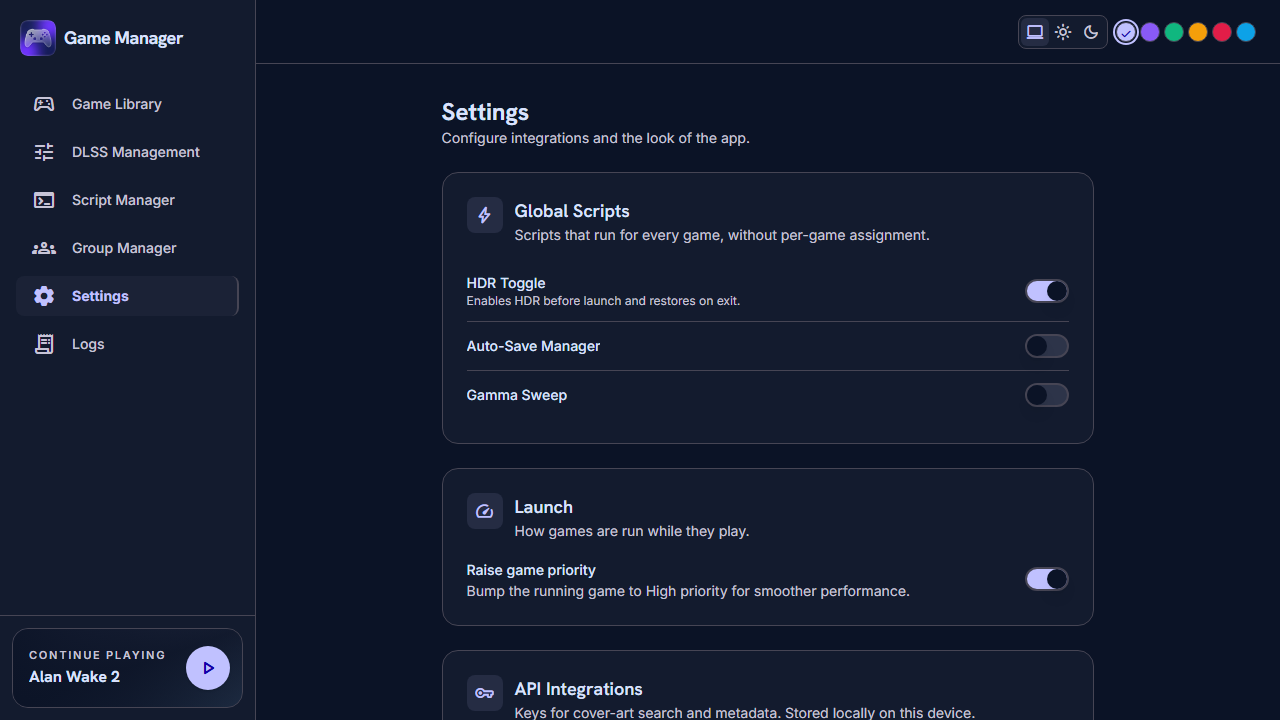
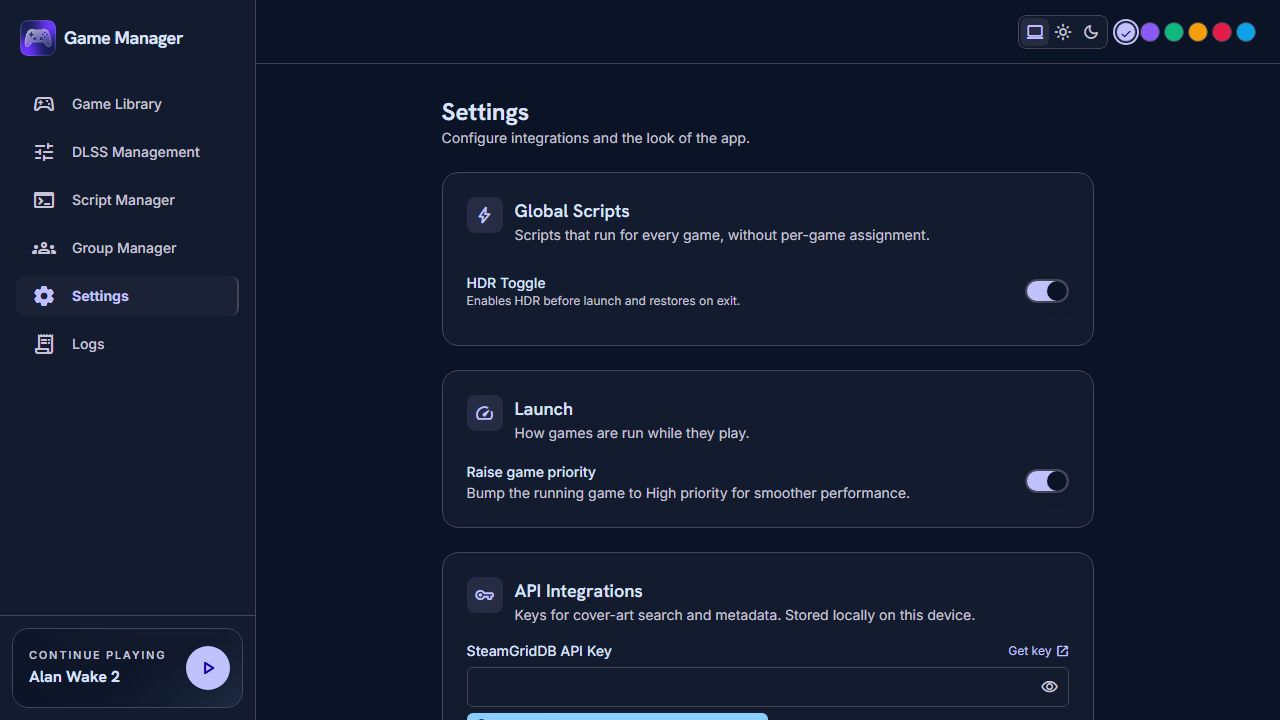
Update global scripts section and logging functionality
- Refactored the GlobalScriptsSection to only list scripts marked as global, improving clarity in the UI.
- Updated related tests to reflect changes in script filtering and toggling behavior.
- Enhanced logging functions to conditionally include verbose logs based on the build type, improving log management.
- Added integration tests to verify the suppression of debug and trace logs when verbose logging is disabled.

diff --git a/src/tests/features/settings/global-scripts-section.test.tsx b/src/tests/features/settings/global-scripts-section.test.tsx
@@ -29,42 +29,41 @@ describe('GlobalScriptsSection', () => {
     useToastStore.setState({ toasts: [] })
   })
 
-  it('renders the placeholder when there are no non-utility scripts', async () => {
+  it('renders the placeholder when there are no global scripts', async () => {
     overrideIpcCommands({ list_scripts: () => [script(3, 'SaveLib', 'utility')] })
     renderWithProviders(<GlobalScriptsSection />)
 
     expect(await screen.findByTestId('global-scripts-placeholder')).toBeInTheDocument()
-    // Utilities are excluded from the toggle list entirely.
     expect(screen.queryByText('SaveLib')).not.toBeInTheDocument()
   })
 
-  it('lists non-utility scripts with a switch reflecting global state', async () => {
+  it('shows only scripts whose kind is global', async () => {
     overrideIpcCommands({
       list_scripts: () => [script(1, 'Overlay', 'normal'), script(2, 'Presence', 'global')],
     })
     renderWithProviders(<GlobalScriptsSection />)
 
     expect(await screen.findByTestId('global-scripts-list')).toBeInTheDocument()
-    expect(screen.getByRole('switch', { name: 'Run Overlay globally' })).not.toBeChecked()
     expect(screen.getByRole('switch', { name: 'Run Presence globally' })).toBeChecked()
+    expect(screen.queryByRole('switch', { name: 'Run Overlay globally' })).not.toBeInTheDocument()
   })
 
-  it('toggles a script to global via set_script_kind', async () => {
+  it('toggles a global script back to normal via set_script_kind', async () => {
     overrideIpcCommands({
-      list_scripts: () => [script(1, 'Overlay', 'normal')],
-      set_script_kind: (args) => ({ ...script(1, 'Overlay', 'normal'), kind: args?.kind }),
+      list_scripts: () => [script(1, 'Overlay', 'global')],
+      set_script_kind: (args) => ({ ...script(1, 'Overlay', 'global'), kind: args?.kind }),
     })
     const user = userEvent.setup()
     renderWithProviders(<GlobalScriptsSection />)
 
     await user.click(await screen.findByRole('switch', { name: 'Run Overlay globally' }))
     await waitFor(() => expect(ipc.calls('set_script_kind')).toHaveLength(1))
-    expect(ipc.calls('set_script_kind')[0]).toEqual({ id: 1, kind: 'global' })
+    expect(ipc.calls('set_script_kind')[0]).toEqual({ id: 1, kind: 'normal' })
   })
 
   it('toasts when the kind update fails', async () => {
     overrideIpcCommands({
-      list_scripts: () => [script(1, 'Overlay', 'normal')],
+      list_scripts: () => [script(1, 'Overlay', 'global')],
       set_script_kind: () => {
         throw new Error('db locked')
       },

diff --git a/src/features/settings/global-scripts-section.tsx b/src/features/settings/global-scripts-section.tsx
@@ -7,16 +7,15 @@ import type { Script } from '@/types/domain'
 import { SettingsSection } from './settings-section'
 
 /**
- * Global Scripts section. Lists every non-utility script with a Switch that
- * toggles its `kind` between `global` and `normal` via `set_script_kind`.
- * Utility scripts are excluded — they are phase-less snippets, never global
- * execution entries.
+ * Global Scripts section. Lists only scripts whose persisted `kind` is
+ * `global`, with a Switch that can demote them back to `normal` via
+ * `set_script_kind`.
  */
 export function GlobalScriptsSection(): React.JSX.Element {
   const scriptsQuery = useScriptsQuery()
   const setKindMutation = useSetScriptKindMutation()
 
-  const toggleable = (scriptsQuery.data ?? []).filter((script) => script.kind !== 'utility')
+  const globalScripts = (scriptsQuery.data ?? []).filter((script) => script.kind === 'global')
 
   async function handleToggle(script: Script, makeGlobal: boolean): Promise<void> {
     try {
@@ -40,19 +39,19 @@ export function GlobalScriptsSection(): React.JSX.Element {
       title="Global Scripts"
       description="Scripts that run for every game, without per-game assignment."
     >
-      {toggleable.length === 0 ? (
+      {globalScripts.length === 0 ? (
         <div
           className="flex flex-col items-center justify-center gap-2 rounded-lg border border-dashed border-border py-10 text-center"
           data-testid="global-scripts-placeholder"
         >
           <Icon name="code_off" className="text-[32px] text-muted-foreground" />
           <p className="text-sm text-muted-foreground">
-            Global script toggles appear here once you create scripts.
+            Scripts marked global will appear here.
           </p>
         </div>
       ) : (
         <ul className="divide-y divide-border" data-testid="global-scripts-list">
-          {toggleable.map((script) => {
+          {globalScripts.map((script) => {
             const isGlobal = script.kind === 'global'
             return (
               <li key={script.id} className="flex items-center justify-between gap-4 py-3">

diff --git a/src-tauri/src/commands/logging.rs b/src-tauri/src/commands/logging.rs
@@ -35,9 +35,33 @@ fn parse_level(level: &str) -> LogLevel {
     }
 }
 
+/// Whether rows below `info` should be persisted or returned by the Log Viewer.
+pub fn include_verbose_logs(is_debug_build: bool) -> bool {
+    is_debug_build
+}
+
 /// Persist a frontend log line to the `logs` table (mirrored to `tracing`).
 ///
-/// Returns the new row's id. `category` defaults to `frontend` when absent.
+/// Returns the new row's id, or `0` when the row is intentionally suppressed.
+/// `category` defaults to `frontend` when absent.
+pub fn log_frontend_impl_with_minimum_level(
+    state: &AppState,
+    level: &str,
+    category: Option<&str>,
+    message: &str,
+    details: Option<&str>,
+    include_verbose: bool,
+) -> AppResult<i64> {
+    let level = parse_level(level);
+    if level == LogLevel::Debug && !include_verbose {
+        return Ok(0);
+    }
+
+    let category = category.unwrap_or("frontend");
+    state.with_db(|conn| write_log(conn, level, category, message, None, None, details))
+}
+
+/// Persist a frontend log line using the current build's verbose-log visibility.
 pub fn log_frontend_impl(
     state: &AppState,
     level: &str,
@@ -45,9 +69,14 @@ pub fn log_frontend_impl(
     message: &str,
     details: Option<&str>,
 ) -> AppResult<i64> {
-    let level = parse_level(level);
-    let category = category.unwrap_or("frontend");
-    state.with_db(|conn| write_log(conn, level, category, message, None, None, details))
+    log_frontend_impl_with_minimum_level(
+        state,
+        level,
+        category,
+        message,
+        details,
+        include_verbose_logs(cfg!(debug_assertions)),
+    )
 }
 
 /// Fetch one page of log rows (newest first) for the Log Viewer.
@@ -59,16 +88,21 @@ pub fn log_frontend_impl(
 /// rows, so the viewer always exposes at least [`LOG_MIN_PAGES`] pages, or a full
 /// day of logs when that is larger. The returned [`LogPage::total`] reflects that
 /// bounded window. Pages beyond the window resolve to an empty `entries` list.
-pub fn list_logs_impl(
+pub fn list_logs_impl_with_minimum_level(
     state: &AppState,
     page: i64,
     page_size: i64,
     level: Option<&str>,
     search: Option<&str>,
+    include_verbose: bool,
 ) -> AppResult<LogPage> {
     let page = page.max(1);
     let page_size = page_size.max(1);
-    let filter = LogFilter { level, search };
+    let filter = LogFilter {
+        level,
+        search,
+        include_verbose,
+    };
     let day_cutoff = (Utc::now() - Duration::days(1)).to_rfc3339();
     state.with_db(|conn| {
         let actual_total = logs::count_filtered(conn, &filter, None)?;
@@ -90,6 +124,24 @@ pub fn list_logs_impl(
             page_size,
         })
     })
+}
+
+/// Fetch one page of log rows using the current build's verbose-log visibility.
+pub fn list_logs_impl(
+    state: &AppState,
+    page: i64,
+    page_size: i64,
+    level: Option<&str>,
+    search: Option<&str>,
+) -> AppResult<LogPage> {
+    list_logs_impl_with_minimum_level(
+        state,
+        page,
+        page_size,
+        level,
+        search,
+        include_verbose_logs(cfg!(debug_assertions)),
+    )
 }
 
 /// Thin `#[tauri::command]` wrapper delegating to [`log_frontend_impl`].

diff --git a/src-tauri/tests/logs_pagination_integration.rs b/src-tauri/tests/logs_pagination_integration.rs
@@ -1,7 +1,9 @@
 //! Pagination for the Log Viewer (`list_logs_impl`) integration tests.
 
 use chrono::{Duration, Utc};
-use game_manager_lib::commands::logging::{list_logs_impl, LOG_MIN_PAGES, LOG_PAGE_SIZE};
+use game_manager_lib::commands::logging::{
+    list_logs_impl, list_logs_impl_with_minimum_level, LOG_MIN_PAGES, LOG_PAGE_SIZE,
+};
 use game_manager_lib::db::repo::logs::{self, NewLog};
 use game_manager_lib::domain::LogLevel;
 use game_manager_lib::state::AppState;
@@ -117,6 +119,38 @@ fn filters_by_level() {
     let none = list_logs_impl(&state, 1, LOG_PAGE_SIZE, Some("warn"), None).unwrap();
     assert_eq!(none.total, 0);
     assert!(none.entries.is_empty());
+}
+
+#[test]
+fn info_minimum_excludes_verbose_rows_from_all_filters() {
+    let state = AppState::in_memory().unwrap();
+    let now = Utc::now().to_rfc3339();
+    seed_with(&state, 3, &now, LogLevel::Debug, "dlss");
+    seed_with(&state, 2, &now, LogLevel::Info, "dlss");
+    seed_with(&state, 1, &now, LogLevel::Warn, "dlss");
+
+    let all =
+        list_logs_impl_with_minimum_level(&state, 1, LOG_PAGE_SIZE, None, None, false).unwrap();
+    assert_eq!(all.total, 3);
+    assert!(all
+        .entries
+        .iter()
+        .all(|entry| entry.level != LogLevel::Debug));
+
+    let debug =
+        list_logs_impl_with_minimum_level(&state, 1, LOG_PAGE_SIZE, Some("debug"), None, false)
+            .unwrap();
+    assert_eq!(debug.total, 0);
+    assert!(debug.entries.is_empty());
+
+    let debug_visible =
+        list_logs_impl_with_minimum_level(&state, 1, LOG_PAGE_SIZE, Some("debug"), None, true)
+            .unwrap();
+    assert_eq!(debug_visible.total, 3);
+    assert!(debug_visible
+        .entries
+        .iter()
+        .all(|entry| entry.level == LogLevel::Debug));
 }
 
 #[test]

diff --git a/src-tauri/tests/logging_retention_integration.rs b/src-tauri/tests/logging_retention_integration.rs
@@ -1,7 +1,9 @@
 //! Logging facade + 7-day retention + `log_frontend` command integration tests.
 
 use chrono::{Duration, Utc};
-use game_manager_lib::commands::logging::log_frontend_impl;
+use game_manager_lib::commands::logging::{
+    include_verbose_logs, log_frontend_impl, log_frontend_impl_with_minimum_level,
+};
 use game_manager_lib::db::connection::open_in_memory;
 use game_manager_lib::db::repo::logs;
 use game_manager_lib::domain::LogLevel;
@@ -138,6 +140,33 @@ fn log_frontend_persists_row_readable_via_repo() {
             );
             // Default category applied.
             assert_eq!(logs::get(conn, id2).unwrap().unwrap().category, "frontend");
+            Ok(())
+        })
+        .unwrap();
+}
+
+#[test]
+fn log_frontend_suppresses_debug_and_trace_when_verbose_logs_are_disabled() {
+    let state = AppState::in_memory().unwrap();
+
+    let debug_id =
+        log_frontend_impl_with_minimum_level(&state, "debug", None, "debug", None, false).unwrap();
+    let trace_id =
+        log_frontend_impl_with_minimum_level(&state, "trace", None, "trace", None, false).unwrap();
+    let info_id =
+        log_frontend_impl_with_minimum_level(&state, "info", None, "info", None, false).unwrap();
+
+    assert_eq!(debug_id, 0);
+    assert_eq!(trace_id, 0);
+    assert!(info_id > 0);
+    assert!(!include_verbose_logs(false));
+    assert!(include_verbose_logs(true));
+
+    state
+        .with_db(|conn| {
+            assert_eq!(logs::count(conn).unwrap(), 1);
+            let row = logs::get(conn, info_id).unwrap().expect("info row");
+            assert_eq!(row.level, LogLevel::Info);
             Ok(())
         })
         .unwrap();

diff --git a/src-tauri/src/db/repo/logs.rs b/src-tauri/src/db/repo/logs.rs
@@ -106,6 +106,8 @@ pub struct LogFilter<'a> {
     pub level: Option<&'a str>,
     /// Substring matched against `message` or `category`; `None`/empty matches all.
     pub search: Option<&'a str>,
+    /// Whether verbose rows below `info` are eligible for results.
+    pub include_verbose: bool,
 }
 
 /// Build the dynamic `WHERE` clause and its positional params for a filter.
@@ -118,6 +120,10 @@ fn build_where(filter: &LogFilter<'_>, since: Option<&str>) -> (String, Vec<Valu
     if let Some(level) = filter.level.filter(|s| !s.is_empty()) {
         clauses.push("level = ?");
         params.push(Value::Text(level.to_string()));
+    }
+    if !filter.include_verbose {
+        clauses.push("level <> ?");
+        params.push(Value::Text(LogLevel::Debug.as_db_str().to_string()));
     }
     if let Some(term) = filter.search.map(str::trim).filter(|s| !s.is_empty()) {
         clauses.push("(message LIKE ? OR category LIKE ?)");